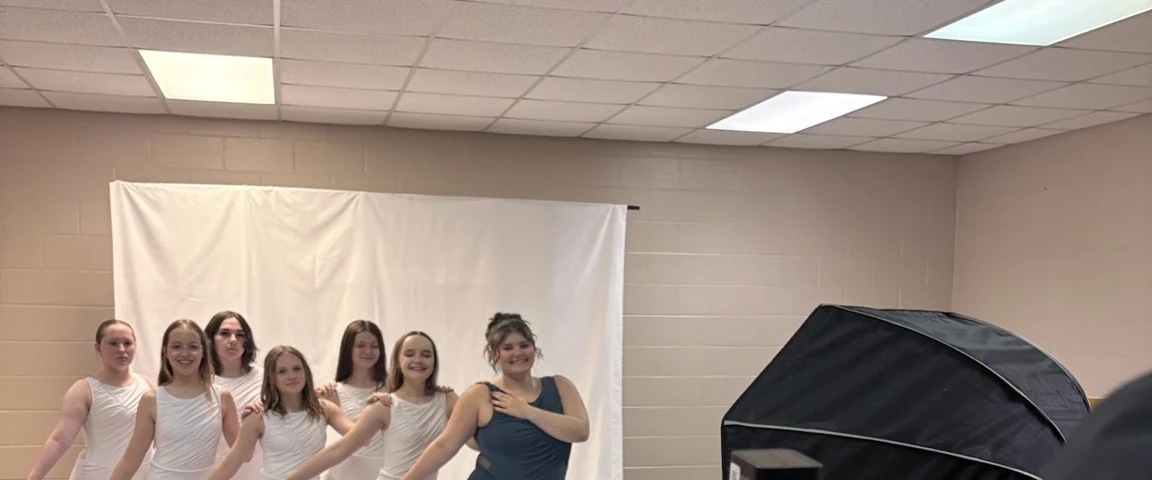
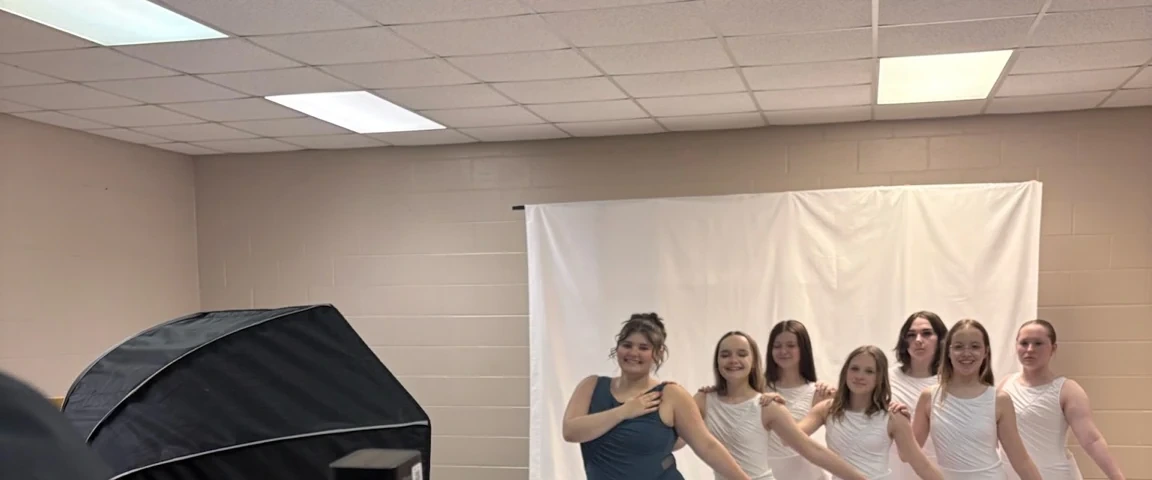
Add files via upload

diff --git a/styles.css b/styles.css
@@ -379,9 +379,9 @@ p { margin: 0 0 18px; }
     min-height: 700px;
     padding-top: 150px;
     background-image:
-      linear-gradient(90deg, rgba(0, 0, 0, .92) 0%, rgba(0, 0, 0, .72) 44%, rgba(0, 0, 0, .2) 82%),
+      linear-gradient(90deg, rgba(0, 0, 0, .96) 0%, rgba(0, 0, 0, .78) 38%, rgba(0, 0, 0, .18) 60%, rgba(0, 0, 0, 0) 78%),
       url('assets/home-hero-mobile.webp');
-    background-position: 72% center;
+    background-position: right center;
   }
   .about-hero {
     background-image:
@@ -405,7 +405,7 @@ p { margin: 0 0 18px; }
   .value-strip article { border-right: 0; border-bottom: 1px solid var(--line); }
   .value-strip article:last-child { border-bottom: 0; }
   .split-section.reverse img { order: 0; }
-  .split-section img { height: 420px; }
+  .split-section img { height: auto; object-fit: contain; }
   .payment-card.featured { transform: none; }
   .cta-section { margin-left: 18px; margin-right: 18px; }
   .cta-section img { width: 120px; opacity: .16; }
@@ -413,6 +413,11 @@ p { margin: 0 0 18px; }
 
 @media (max-width: 520px) {
   .brand img { width: 185px; }
+  .hero-home .hero-copy { width: 62%; }
+  .hero-home .hero-copy h1 { font-size: 2.35rem; line-height: .96; }
+  .hero-home .hero-copy p { font-size: .86rem; line-height: 1.5; }
+  .hero-home .actions { gap: 10px; margin-top: 22px; }
+  .hero-home .actions .button { font-size: .68rem; padding: 11px 10px; }
   .nav { top: 86px; }
   .hero-home, .page-hero { padding-left: 18px; padding-right: 18px; }
   .hero-home { min-height: 640px; }
